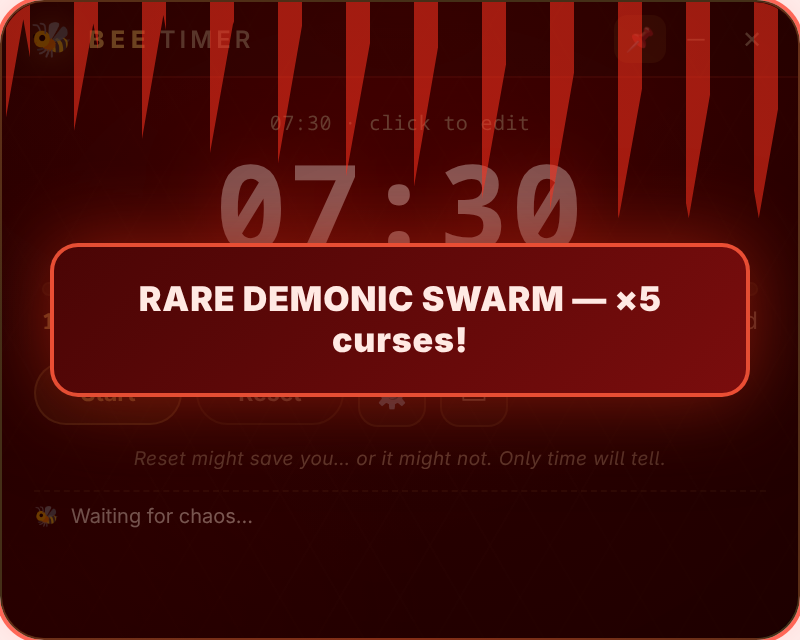
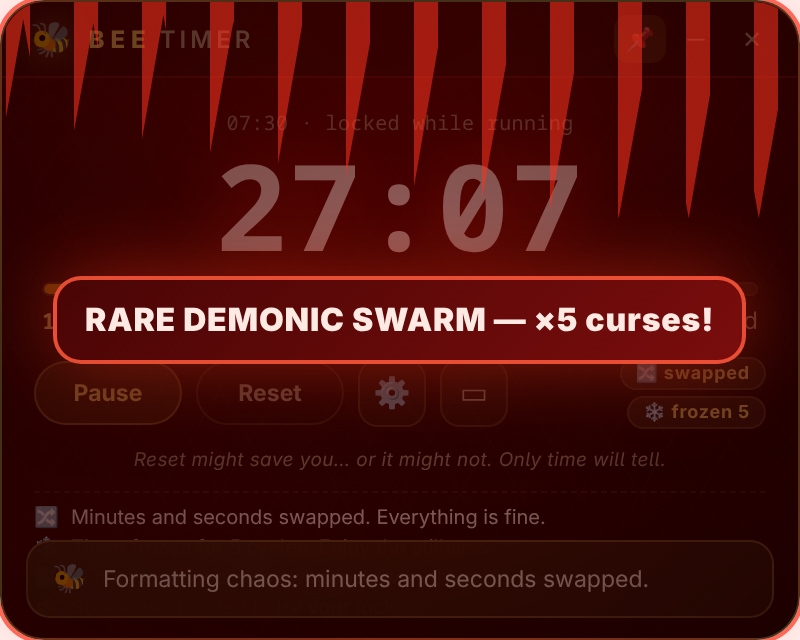
fix: sticky formatting chaos (hours<->minutes), reset luck message, halve-time framing, swarm step/label fixes; v0.1.5
- formatting chaos no longer reverts after a few ticks; swaps the two biggest
  units (hours<->minutes with an hours display) and stays until reset
- formatting status moved into the status chips (removed overlapping badge)
- reset/run-again now logs "So you've decided to try your luck."
- Halve Time reframed as good news in description/log/notification
- swarm chance arrows step by 0.05%; rare swarm label clamped to fit the window
- docs/tests/screenshots updated

diff --git a/src/renderer/app.js b/src/renderer/app.js
@@ -32,7 +32,7 @@ function cacheEls() {
     'wizardScreen', 'timerScreen', 'settingsScreen', 'wizardFeatures', 'settingsFeatures',
     'settingsAdvancedFeatures',
     'advancedPanel', 'advancedToggle', 'durationInput', 'durationHint', 'startBtn',
-    'timeDisplay', 'formatBadge', 'secondLen', 'pulseFill', 'freezeChip', 'restChip',
+    'timeDisplay', 'formatChip', 'secondLen', 'pulseFill', 'freezeChip', 'restChip',
     'speedChip', 'pauseChip', 'pauseBtn', 'resetBtn', 'settingsBtn', 'logList',
     'restOverlay', 'restCountdown', 'restProgressFill', 'skipRestBtn',
     'endOverlay', 'endStats', 'runBackBtn', 'endSettingsBtn', 'toast', 'toastText',
@@ -325,12 +325,12 @@ function buildFeatureRow(feature) {
   // Per-tick chance (%) — editable, so descriptions never hard-code percentages.
   const chance = document.createElement('label');
   chance.className = 'chance-field';
-  chance.title = 'Chance per tick (%) — arrow keys change it by 0.5%';
+  chance.title = `Chance per tick (%) — arrow keys change it by ${feature.chanceStep ?? 0.5}%`;
   const chanceInput = document.createElement('input');
   chanceInput.type = 'number';
   chanceInput.min = '0';
   chanceInput.max = '100';
-  chanceInput.step = '0.5';
+  chanceInput.step = String(feature.chanceStep ?? 0.5);
   chanceInput.dataset.chanceForKey = feature.key;
   chanceInput.value = String(config.features[feature.key].chancePct);
   chanceInput.addEventListener('change', () => {
@@ -521,7 +521,7 @@ function bindTimer() {
     engine.reset();
     hideEndScreen();
     // Reset while running restarts immediately; Stop (paused) stays stopped.
-    if (wasRunning && !wasPaused) engine.start();
+    if (wasRunning && !wasPaused) engine.start('reset');
     render(engine.snapshot());
   });
   els.compactBtn.addEventListener('click', toggleCompact);
@@ -546,7 +546,7 @@ function bindTimer() {
   els.runBackBtn.addEventListener('click', () => {
     hideEndScreen();
     engine?.reset();
-    engine?.start();
+    engine?.start('reset');
   });
   els.endSettingsBtn.addEventListener('click', () => showScreen('settings'));
 }
@@ -573,7 +573,10 @@ function render(snapshot) {
   els.timeDisplay.textContent = snapshot.display;
   els.timeDisplay.classList.toggle('chaos-swap', snapshot.formatKind === 'swap');
   els.timeDisplay.classList.toggle('chaos-round', snapshot.formatKind === 'round');
-  els.formatBadge.classList.toggle('hidden', !snapshot.formatKind);
+  els.formatChip.classList.toggle('hidden', !snapshot.formatKind);
+  if (snapshot.formatKind) {
+    els.formatChip.textContent = snapshot.formatKind === 'swap' ? '🔀 swapped' : '🔀 rounded';
+  }
   els.secondLen.textContent = `${(snapshot.tickLengthMs / 1000).toFixed(1)}s`;
 
   els.freezeChip.classList.toggle('hidden', snapshot.frozenTicks <= 0);
@@ -733,7 +736,7 @@ function describeEffect(effect) {
     case 'add-second': return '+1 second. The timer is being petty.';
     case 'add-minute': return '+1 minute. Bold of you to think you were close.';
     case 'double': return 'Remaining time DOUBLED. Why. Just why.';
-    case 'halve': return 'Remaining time cut in half. Brutal.';
+    case 'halve': return 'Remaining time cut in half. Finally, some good news.';
     case 'freeze': return `Timer frozen for ${effect.cycles ?? 5} cycles.`;
     case 'format': return effect.kind === 'swap'
       ? 'Formatting chaos: minutes and seconds swapped.'

diff --git a/src/renderer/engine.js b/src/renderer/engine.js
@@ -50,7 +50,8 @@ export function formatRemaining(ms, formatKind = null) {
     return hh > 0 ? `${hh}:${pad(mm)}:00` : `${pad(mm)}:00`;
   }
   if (formatKind === 'swap') {
-    return h > 0 ? `${h}:${pad(s)}:${pad(m)}` : `${pad(s)}:${pad(m)}`;
+    // With hours on the clock, swap the two most significant units (h <-> m).
+    return h > 0 ? `${pad(m)}:${pad(h)}:${pad(s)}` : `${pad(s)}:${pad(m)}`;
   }
   return h > 0 ? `${h}:${pad(m)}:${pad(s)}` : `${pad(m)}:${pad(s)}`;
 }
@@ -145,12 +146,14 @@ export class BeeEngine {
     this.emit();
   }
 
-  start() {
+  start(reason = 'fresh') {
     if (this.ended) this.reset();
     if (this.running) return;
     this.running = true;
     this.paused = false;
-    this.logEvent('🐝', 'Countdown started. Good luck.');
+    this.logEvent('🐝', reason === 'reset'
+      ? "So you've decided to try your luck."
+      : 'Countdown started. Good luck.');
     this.scheduleTick(this.nextTickDelay());
     this.emit();
   }
@@ -322,7 +325,7 @@ export class BeeEngine {
       this.remainingMs = Math.max(1000, Math.floor(this.remainingMs / 2));
       if (this.remainingMs < before) {
         this.stats.halved += 1;
-        this.pushLog('➗', 'Remaining time cut in half. Brutal.');
+        this.pushLog('🎉', 'Remaining time cut in half. Finally, some good news.');
         this.onEffect({ type: 'halve' });
       }
     }
@@ -458,14 +461,18 @@ export class BeeEngine {
     if (feature.roundNearestMinute) options.push('round');
     if (!options.length) return;
     const kind = options[Math.floor(this.rng() * options.length)];
-    const duration = feature.durationTicks ?? 3;
-    this.formatState = { kind, untilTick: this.tick + duration };
+    // Sticky until reset (or until another formatting chaos event): it used to
+    // revert after a few ticks, which read as a display glitch.
+    this.formatState = { kind, untilTick: Infinity };
     this.stats.formats += 1;
+    const hourScale = this.remainingMs >= 3_600_000;
     this.pushLog(
       '🔀',
-      kind === 'swap' ? 'Minutes and seconds swapped. Everything is fine.' : 'Rounded to the nearest minute. Who approved this?',
+      kind === 'swap'
+        ? (hourScale ? 'Hours and minutes swapped. Everything is fine.' : 'Minutes and seconds swapped. Everything is fine.')
+        : 'Rounded to the nearest minute. Who approved this?',
     );
-    this.onEffect({ type: 'format', kind, durationTicks: duration });
+    this.onEffect({ type: 'format', kind });
   }
 
   startRest() {

diff --git a/src/renderer/index.html b/src/renderer/index.html
@@ -78,7 +78,6 @@
                 <button type="button" id="durationEditCancel" class="mini-btn ghost" title="Cancel">✕</button>
               </form>
             </div>
-            <div id="formatBadge" class="format-badge hidden">formatting chaos</div>
             <div id="timeDisplay" class="time-display">10:00</div>
             <div class="second-meter">
               <div class="meter-track"><div id="pulseFill" class="meter-fill"></div></div>
@@ -97,6 +96,7 @@
               <button id="compactBtn" class="icon-btn big" title="Compact mode — timer only" aria-label="Compact mode">▭</button>
             </div>
             <div class="controls-status">
+              <span id="formatChip" class="status-chip hidden">🔀 swapped</span>
               <span id="freezeChip" class="status-chip hidden">❄ frozen</span>
               <span id="restChip" class="status-chip hidden">🧘 resting</span>
               <span id="speedChip" class="status-chip hidden">🌀 2×</span>

diff --git a/src/renderer/features.js b/src/renderer/features.js
@@ -34,7 +34,7 @@ export const FEATURES = [
     key: 'halveTime',
     icon: '➗',
     title: 'Halve Time',
-    desc: 'Cuts your remaining time in half. Brutal.',
+    desc: 'Cuts your remaining time in half. A gift from the hive.',
     group: 'core',
   },
   {
@@ -100,6 +100,7 @@ export const FEATURES = [
     icon: '🌟',
     title: 'Rare Swarms',
     desc: 'A rare blessed or demonic swarm: ×5 of every good or bad effect. Whole-screen event.',
+    chanceStep: 0.05,
     group: 'swarm',
   },
   {
@@ -107,6 +108,7 @@ export const FEATURES = [
     icon: '🐝',
     title: 'Common Swarms',
     desc: 'A happy or angry swarm: ×1 of every good or bad effect. Themed popup.',
+    chanceStep: 0.05,
     group: 'swarm',
   },
 ];

diff --git a/src/renderer/styles.css b/src/renderer/styles.css
@@ -1091,3 +1091,19 @@ body.reduced-motion .swarm-label { animation: none !important; }
   .settings { padding-left: 14px; padding-right: 14px; }
 }
 .swarm-title { color: var(--honey); }
+
+/* ==================== rare swarm label: always fit the window ============ */
+.swarm-label {
+  max-width: calc(100% - 28px);
+  padding: 8px 12px;
+  font-size: clamp(11px, 3.6vw, 15px);
+  line-height: 1.25;
+  overflow-wrap: anywhere;
+  hyphens: auto;
+}
+.swarm-overlay.rare .swarm-label {
+  max-width: calc(100% - 32px);
+  padding: 10px 14px;
+  font-size: clamp(12px, 4vw, 16px);
+}
+.controls-status { max-width: 60%; gap: 3px; }

diff --git a/README.md b/README.md
@@ -43,9 +43,9 @@ Every feature is independently toggleable and has a per-tick probability you can
 | ⏱ +1 Second | 5% | **On** | Adds a second. Petty. |
 | 😈 +1 Minute | 1% | **On** | Adds 60 seconds. Emotionally devastating. |
 | ✖ Double Time | 1% | **On** | Doubles remaining time (capped at 24h). |
-| ➗ Halve Time | 1% | **On** | Cuts remaining time in half. |
+| ➗ Halve Time | 1% | **On** | Cuts remaining time in half — a welcome mercy. |
 | ❄ Freeze Timer | 5% | **On** | Pauses the countdown for 5 cycles. |
-| 🔀 Formatting Chaos | 5% | **On** | Swaps min/sec or rounds the display — display only, never corrupts the real clock. |
+| 🔀 Formatting Chaos | 5% | **On** | Swaps the two biggest units (hours↔minutes, or minutes↔seconds) or rounds the display. Sticky until reset; display only, never corrupts the real clock. |
 | 🌀 Speed Distortion | 10% | **On** | A tick becomes 0.5× or 2× as long, for a configurable number of ticks (default 4). |
 | ♾ Distorting Chaos | 1% | **On** | Makes speed distortion permanent and compounding (2× → 4× → 8×, or back down with 0.5×). Requires Speed Distortion; while on, its own chance replaces Speed Distortion's chance/duration. |
 | 💬 Supportive BEE Messages | 1% | **On** | A kind, encouraging message from the hive (no puns). Desktop notification plus in-app toast. |
@@ -104,7 +104,7 @@ curl -fsSL https://raw.githubusercontent.com/nu-code-dev/bee-timer/main/install.
 - optional interactive prompts, defaulting to **No** (and reading from `/dev/tty`, so `curl | bash` still works): install `mako` on Arch when no notification daemon is running (other distros get package-manager advice), and append BEE Timer window rules to your Hyprland config (Lua `hyprland.lua` when present, legacy `hyprland.conf` otherwise). The rule edit backs the file up, skips duplicate rules, and runs `hyprctl reload` when available.
 - unattended installs: `BEE_TIMER_YES=1` accepts both prompts; with no TTY the answers stay No
 - uninstall with: `curl -fsSL https://raw.githubusercontent.com/nu-code-dev/bee-timer/main/install.sh | bash -s -- --uninstall` — this also removes the BEE Timer rule block the installer added to your Hyprland config, leaving the rest of the file and your app config untouched
-- `BEE_TIMER_PREFIX=/usr/local` with `sudo` for a system-wide install, `BEE_TIMER_VERSION=0.1.4` to pin a release
+- `BEE_TIMER_PREFIX=/usr/local` with `sudo` for a system-wide install, `BEE_TIMER_VERSION=0.1.5` to pin a release
 - completely optional — the AUR package, AppImage, `.deb`, and source builds below all still work
 - the same setup notes (notification-daemon status, copyable Hyprland snippets, installed paths, uninstall command) are inside the app under **Settings → Setup & integration**
 
@@ -123,21 +123,21 @@ That installs the release AppImage to `/opt/bee-timer/` behind a `/usr/bin/bee-t
 
 ### Direct download (Linux)
 
-Grab `bee-timer-0.1.4-x86_64.AppImage` or `bee-timer-0.1.4-amd64.deb` from [Releases](https://github.com/nu-code-dev/bee-timer/releases) (tag `v0.1.4`):
+Grab `bee-timer-0.1.5-x86_64.AppImage` or `bee-timer-0.1.5-amd64.deb` from [Releases](https://github.com/nu-code-dev/bee-timer/releases) (tag `v0.1.5`):
 
 ```bash
 # AppImage
-chmod +x bee-timer-0.1.4-x86_64.AppImage
-./bee-timer-0.1.4-x86_64.AppImage
+chmod +x bee-timer-0.1.5-x86_64.AppImage
+./bee-timer-0.1.5-x86_64.AppImage
 
 # Debian / Ubuntu
-sudo apt install ./bee-timer-0.1.4-amd64.deb
+sudo apt install ./bee-timer-0.1.5-amd64.deb
 ```
 
 <a id="windows"></a>
 ### Windows
 
-Download the [`bee-timer-0.1.4-x64.exe`](https://github.com/nu-code-dev/bee-timer/releases/tag/v0.1.3) NSIS installer from [Releases](https://github.com/nu-code-dev/bee-timer/releases). It is built by GitHub Actions on every release and is **unsigned**:
+Download the [`bee-timer-0.1.5-x64.exe`](https://github.com/nu-code-dev/bee-timer/releases/tag/v0.1.3) NSIS installer from [Releases](https://github.com/nu-code-dev/bee-timer/releases). It is built by GitHub Actions on every release and is **unsigned**:
 
 - SmartScreen will show *"Windows protected your PC"* → click **More info** → **Run anyway**.
 - Windows builds are **x64 only** and are CI-produced; they are not smoke-tested on real Windows hardware by the maintainer yet.
@@ -145,7 +145,7 @@ Download the [`bee-timer-0.1.4-x64.exe`](https://github.com/nu-code-dev/bee-time
 <a id="macos"></a>
 ### macOS
 
-Download the [`bee-timer-0.1.4-arm64.dmg`](https://github.com/nu-code-dev/bee-timer/releases/tag/v0.1.3) disk image from [Releases](https://github.com/nu-code-dev/bee-timer/releases). It is **Apple Silicon only** (the CI runner is `macos-latest`/arm64), unsigned and not notarized:
+Download the [`bee-timer-0.1.5-arm64.dmg`](https://github.com/nu-code-dev/bee-timer/releases/tag/v0.1.3) disk image from [Releases](https://github.com/nu-code-dev/bee-timer/releases). It is **Apple Silicon only** (the CI runner is `macos-latest`/arm64), unsigned and not notarized:
 
 - Gatekeeper will block the app → right-click the app → **Open**, or allow it under **System Settings → Privacy & Security**.
 - Intel Macs would need a separate build (not configured in CI yet); building from source below also works.
@@ -243,7 +243,7 @@ npm run dist:win     # Windows installer — run on Windows or CI
 npm run dist:mac     # macOS .dmg — run on macOS or CI
 ```
 
-Linux artifact names are pinned by `build.artifactName = "bee-timer-${version}-${arch}.${ext}"`: `dist/bee-timer-0.1.4-x86_64.AppImage` (AppImage) and `dist/bee-timer-0.1.4-amd64.deb` (Debian package). Cross-platform builds are out of scope locally — the [release workflow](.github/workflows/release.yml) builds each OS on its own runner and attaches the artifacts to a GitHub Release.
+Linux artifact names are pinned by `build.artifactName = "bee-timer-${version}-${arch}.${ext}"`: `dist/bee-timer-0.1.5-x86_64.AppImage` (AppImage) and `dist/bee-timer-0.1.5-amd64.deb` (Debian package). Cross-platform builds are out of scope locally — the [release workflow](.github/workflows/release.yml) builds each OS on its own runner and attaches the artifacts to a GitHub Release.
 
 ## Testing
 

diff --git a/docs/CONFIG.md b/docs/CONFIG.md
@@ -40,9 +40,9 @@ Every feature object has `enabled` (boolean) and `chancePct` (number, 0–100, t
 | `addSecond` | `true` | `5` | — | Adds 1 second (clamped by `maxRemainingMs`). |
 | `addMinute` | `true` | `1` | — | Adds 60 seconds (clamped by `maxRemainingMs`). |
 | `doubleTime` | `true` | `1` | — | Doubles remaining time, capped at 24h. |
-| `halveTime` | `true` | `1` | — | Cuts remaining time in half (never below 1 second until the timer ends). |
+| `halveTime` | `true` | `1` | — | Cuts remaining time in half (never below 1 second until the timer ends). A mercy, not a curse. |
 | `freeze` | `true` | `5` | `cycles`: `5` (1–60) | Pauses the countdown for N ticks. |
-| `formatChaos` | `true` | `5` | `swapMinSec`: `true`; `roundNearestMinute`: `true`; `durationTicks`: `3` (1–60) | Display-only chaos for N ticks: swap minutes/seconds or round to the nearest minute. Never changes real remaining time. |
+| `formatChaos` | `true` | `5` | `swapMinSec`: `true`; `roundNearestMinute`: `true`; `durationTicks`: legacy/unused | Display-only, **sticky** chaos: swaps the two biggest units (hours↔minutes when the clock has hours, otherwise minutes↔seconds), or rounds to the nearest minute. It now stays applied until reset or another formatting event, and never changes the real remaining time. |
 | `speedDistortion` | `true` | `10` | `multipliers`: `[0.5, 2]` (only 0.5 and 2 are valid); `durationTicks`: `4` (1–60, editable in Settings) | Scales the real length of the next N ticks. 0.5× = 2s real per game second; 2× = 0.5s real. |
 | `distortingChaos` | `true` | `1` | — | Only active while `speedDistortion.enabled` is true (the sanitizer forces it off otherwise). Makes speed distortion **permanent and compounding**: each trigger multiplies the current speed (1× → 2× → 4×, or back down with 0.5×). While enabled, `speedDistortion`'s chance and `durationTicks` are ignored — this chance is used instead, and the speed never expires. |
 | `windowChaos` | `false` | `1` | `marginPx`: `40` (0–400) | Randomly moves the window within the current monitor's work area (uses `hyprctl eval` on Hyprland when native moves are ignored). Hidden under "Advanced · don't touch". |

diff --git a/docs/HYPRLAND.md b/docs/HYPRLAND.md
@@ -26,7 +26,7 @@ So if you are on a normal Hyprland session with XWayland enabled (the default), 
 ```bash
 BEE_TIMER_OZONE=wayland bee-timer
 # or for the AppImage:
-BEE_TIMER_OZONE=wayland ./bee-timer-0.1.4-x86_64.AppImage
+BEE_TIMER_OZONE=wayland ./bee-timer-0.1.5-x86_64.AppImage
 ```
 
 Any value other than `wayland` is treated as X11. The AUR wrapper passes `BEE_TIMER_OZONE` through, so you can export it from your shell or set it in the `.desktop` `Exec=` line. XWayland must be enabled in your Hyprland config:
